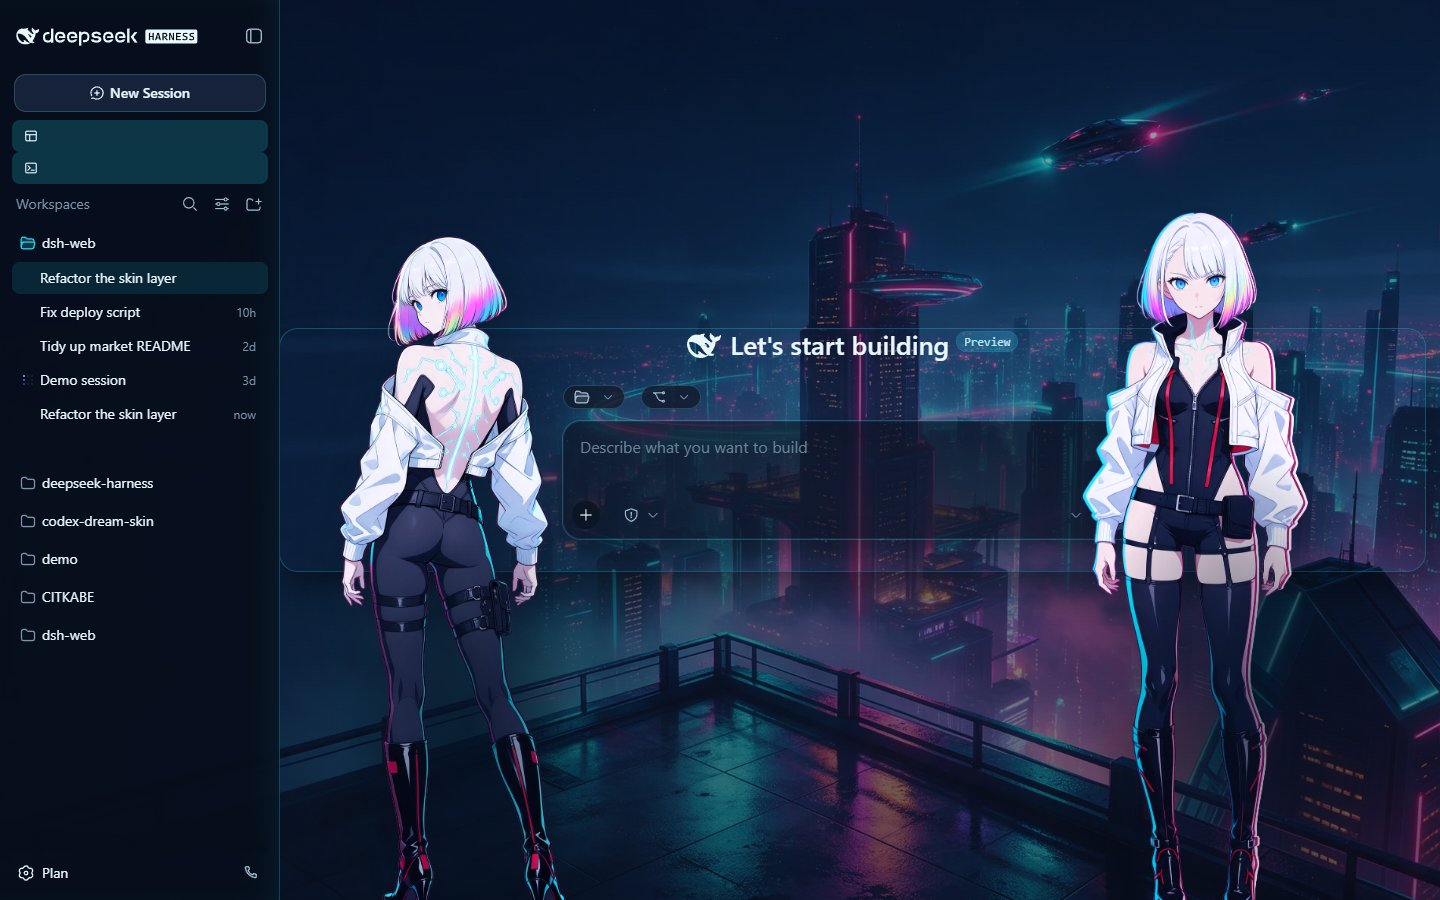
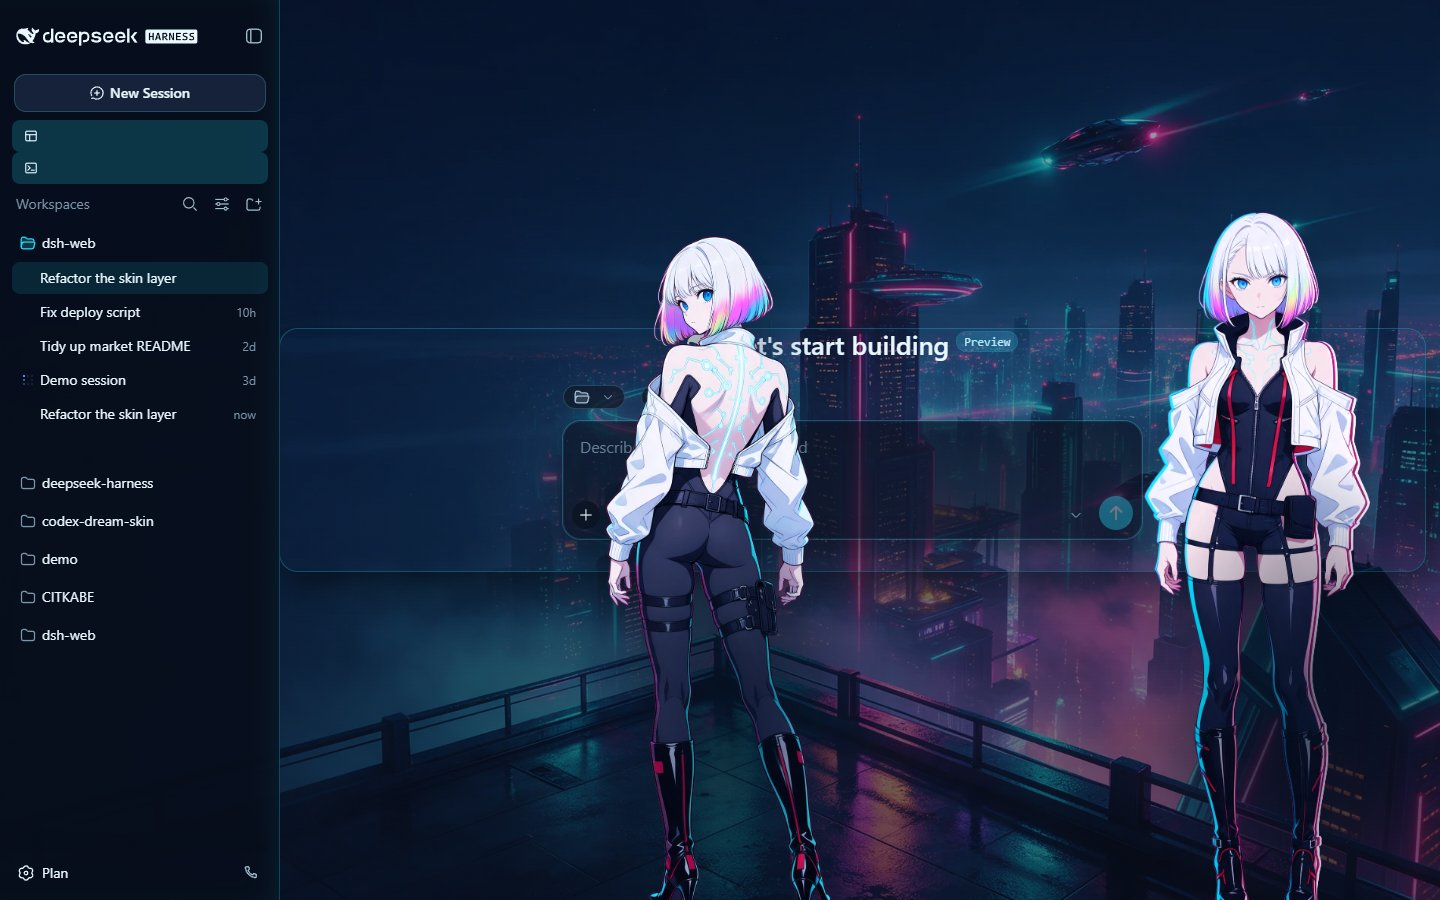
feat(skin): flank the input card instead of the window edges
The portraits are now pinned to the input card itself: [data-composer-card] carries anchor-name --lucy-composer and the two portraits take right: calc(100% - anchor(--lucy-composer left, 44vw)) and left: anchor(--lucy-composer right, 56vw). The card re-centres whenever either drawer moves, so both portraits follow the left rail and the right details pane with no measurement and no per-state rules.

Two root causes of the earlier invisibility are fixed here: z-index 5 lost to the shell's own frame subtree (which carries z-index 15 layers), and --dsh-windows-sidebar-width is declared on the frame element so it never inherited to body::before (the old offset was silently the fallback). With the details pane open only the left portrait stays, because the card's right edge already touches the pane.

Changed region(s): [[0.2188, 0.2489, 0.5938, 1.0], [0.75, 0.2178, 0.9688, 1.0]]

diff --git a/skins/lucy-nightsignal/patches.css b/skins/lucy-nightsignal/patches.css
@@ -62,15 +62,21 @@ body {
 
 /* 3 ---------------------------------------------------------------------- */
 
-/* The portraits ride ABOVE the shell surfaces. At z-index -1 they sat under the
-   centre column's fill, and that fill is 75-80% opaque in the dark theme — a
-   dark portrait behind it is simply invisible. The narrow data column above
-   keeps the transcript out of their wings, so painting on top costs nothing. */
+/* The input card is the geometric anchor: each portrait is pinned to one edge of
+   it, so both follow whatever the two drawers do to the centre column without a
+   single measurement. z-index is deliberately huge — the shell's own frame
+   subtree carries z-index 15 layers and swallowed z-index 5. */
+[data-composer-card],
+[data-composer-seat],
+[data-dsh-surface="composer"] {
+  anchor-name: --lucy-composer;
+}
+
 body:before,
 body:after {
   content: "";
   position: fixed;
-  z-index: 5;
+  z-index: 9999;
   bottom: clamp(-30px, -2vh, -10px);
   pointer-events: none;
   background-repeat: no-repeat, no-repeat;
@@ -78,15 +84,13 @@ body:after {
   background-size: auto, contain;
   opacity: 1;
   filter: saturate(1.06) contrast(1.04) drop-shadow(0 22px 30px #04101f5c);
-  transition: left 0.32s cubic-bezier(0.22, 0.78, 0.2, 1), right 0.32s cubic-bezier(0.22, 0.78, 0.2, 1), height 0.6s cubic-bezier(0.22, 0.78, 0.2, 1);
+  transition: left 0.3s cubic-bezier(0.22, 0.78, 0.2, 1), right 0.3s cubic-bezier(0.22, 0.78, 0.2, 1), height 0.6s cubic-bezier(0.22, 0.78, 0.2, 1);
 }
 
-/* Left: back view with the glowing cyberware traces, riding the sidebar edge.
-   Ladder: a plain baseline, then the width the desktop frame publishes, then
-   the collapsed state (0px rail on the Windows host, 56px elsewhere). */
+/* Left portrait: its right edge sits on the card's left edge. */
 body:before {
-  left: clamp(198px, 17vw, 292px);
-  left: calc(var(--dsh-windows-sidebar-width, 280px) + var(--lucy-wing-gap));
+  right: 56vw;
+  right: calc(100% - anchor(--lucy-composer left, 44vw));
   width: clamp(200px, 22vw, 356px);
   height: clamp(400px, 76vh, 940px);
   background-image:
@@ -94,13 +98,10 @@ body:before {
     url("assets/lucy-signal-left.webp");
 }
 
-body:has([class*="_frame"][data-sidebar-collapsed]):before {
-  left: calc(var(--dsh-windows-sidebar-width, 0px) + var(--lucy-wing-gap));
-}
-
-/* Right: front view, the larger of the two, against the window's right edge. */
+/* Right portrait: its left edge sits on the card's right edge. */
 body:after {
-  right: 0;
+  left: 44vw;
+  left: anchor(--lucy-composer right, 56vw);
   width: clamp(230px, 25vw, 400px);
   height: clamp(440px, 86vh, 1040px);
   background-image:
@@ -108,12 +109,21 @@ body:after {
     url("assets/lucy-signal-right.webp");
 }
 
-/* The details pane can take up to 45% of the frame, and then there is no wing
-   left to stand in: the stage goes quiet instead of dropping a portrait on top
-   of the transcript. */
-body:has([data-rightbar-col]):not(:has([class*="_frame"][data-rightbar-collapsed])):before,
+@supports not (right: anchor(--lucy-composer left, 0px)) {
+  /* Without anchors: the two known drawer states, expressed as offsets that put
+     the portraits beside a centred card. */
+  body:before {
+    right: clamp(600px, 56vw, 1000px);
+  }
+
+  body:after {
+    left: clamp(600px, 56vw, 1000px);
+  }
+}
+
+/* With the details pane open the card's right edge is already at the pane, so
+   only the left portrait has a wing to stand in. */
 body:has([data-rightbar-col]):not(:has([class*="_frame"][data-rightbar-collapsed])):after,
-body:has([class*="_frame"]:not([data-rightbar-collapsed])):before,
 body:has([class*="_frame"]:not([data-rightbar-collapsed])):after {
   display: none;
 }
@@ -130,23 +140,10 @@ body[data-ds-dark-theme]:after {
     url("assets/lucy-signal-right.webp");
 }
 
-@media (width <= 1180px) {
-  body:before {
-    width: clamp(180px, 20vw, 300px);
-  }
-
+@media (width <= 900px) {
+  body:before,
   body:after {
-    width: clamp(200px, 24vw, 320px);
-  }
-}
-
-@media (width <= 860px) {
-  body:before {
     display: none;
-  }
-
-  body:after {
-    width: clamp(150px, 26vw, 210px);
   }
 }
 
